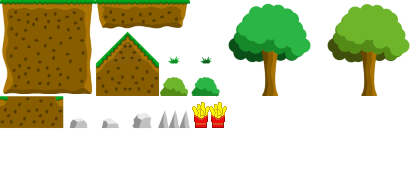
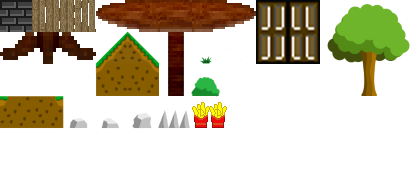
Agregado el tile del nivel 3

Changed region(s): [[0.0, 0.0, 0.7812, 0.5]]

diff --git a/src/scenes/Level3.js b/src/scenes/Level3.js
@@ -27,16 +27,30 @@ class Level3 extends BasicScene {
         //HealthText
         this.createHealthText();
         //Tilemap
-        this.paintLayerAndCreateCollision(GameConstants.Tiles.GRASS_TILES);
+        this.paintLayerAndCreateCollision(GameConstants.Tiles.GRASS_TILES); //Pinta WORLD con collision cuadruple
+
+        this.platformLayerLevel3 = this.paintLayerAndCreateCollision(GameConstants.Tiles.GRASS_TILES, 'UpCollision',true ); //Solo el Layer 'upcollision' se pasa a variable
+
+        //'UpCollision' tendrá collision solo por arriba
+        let x, y, tile;
+        for (x = 0; x < this.platformLayerLevel3.width; x++) {
+            for (y = 1; y < this.platformLayerLevel3.height; y++) {                
+                tile = this.platformLayerLevel3.getTileAt(x, y);                                
+                if (tile !== null) {                    
+                    tile.setCollision(false, false, true, false); 
+                }
+            }
+        }
         this.paintLayerAndCreateCollision(GameConstants.Tiles.GRASS_TILES, GameConstants.Layers.LANDSCAPE, false);
 
         //PRIVATE SCENE ELEMENTS
         this.findTransparentObjects(GameConstants.Layers.SPIKES,GameConstants.Sprites.Spike.KEY, true);
+        /*this.findTransparentObjects(GameConstants.Layers.DOOR1,GameConstants.Sprites.Door1.KEY, true);
+        this.findTransparentObjects(GameConstants.Layers.DOOR2,GameConstants.Sprites.Door2.KEY, true);*/
         
         //FRUITS COLLECTED
         this.fruitsCollected = 10;
         this.fruitDelay = false;
-
 
         //MUSIC and AUDIOS
         this.audioLevel3_DANIELA_WhatAProblem_07 = this.sound.add(this.TG.getActualLang() + "_" + GameConstants.Sound.Level3.DANIELA_QUESTION);

diff --git a/src/scenes/Menu.js b/src/scenes/Menu.js
@@ -30,6 +30,7 @@ class Menu extends BasicScene {
         this.bg1 = this.add.image(0, 0, GameConstants.Textures.BG_LEVEL2).setOrigin(0).setScale(1);
         //Esto es para la posición del background dibujoPortadaEscaneado.png        
         this.bg = this.add.image(0, 0, GameConstants.Textures.BG_MENU).setOrigin(0).setScale(1);
+        //Esto es para el título del juego en el menú
         this.bg9 = this.add.image(60, 0, GameConstants.Textures.BG_MENU2).setOrigin(0).setScale(2.2);
 
         //bg sound
